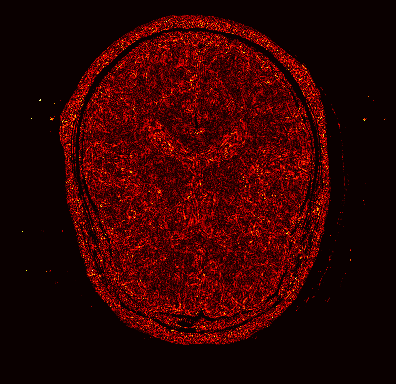
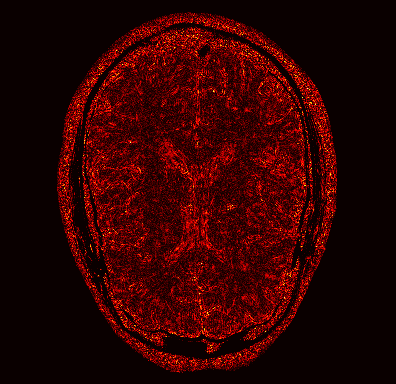
NN mask new opt 0.5

diff --git a/test.py b/test.py
@@ -75,13 +75,13 @@ toIm = toImage()
 # %% load uniform-unet model
 #val_uniform_loss = torch.load('/home/wjy/unet_model_val_loss')
 #mask = torch.load('/home/wjy/unet_mask_noise1')
-#sample_model.mask = mask
+#ample_model.mask = mask
 model = torch.load('/home/wjy/uniform_model_noise1',map_location=torch.device('cpu'))
 # %%
 #plt.plot(val_loss)
 # %%
 
-kspace = test_data[3]
+kspace = test_data[2]
 kspace = kspace.unsqueeze(0)
 Im  = toIm(kspace)
 #plt.imshow(Im[0,0,:,:],cmap='gray')
@@ -100,7 +100,7 @@ cmhot = plt.cm.get_cmap('hot')
 Error = cmhot(np.array(Error.squeeze()/torch.max(Im)*10))
 Error = np.uint8(Error*255)
 Error = Image.fromarray(Error)
-Error.save('/home/wjy/Project/OptSamp/result_local/NN_error_uni_noise05.png')
+Error.save('/home/wjy/Project/OptSamp/result_local/NN_error_opt_noise05.png')
 # %%
 
 #val_unet_loss = torch.load('/home/wjy/unet_model_val_loss')

diff --git a/TV_gradient.m b/TV_gradient.m
@@ -68,7 +68,7 @@ load('/home/wjy/TV_noise10_mask.mat');
 kspace = h5read([datapath,dirname(3).name],'/kspace');
 kspace = complex(kspace.r,kspace.i);
 kspace = permute(kspace,[4,2,1,3]);
-kData = undersample(reshape(kspace(1,:,:,:),2*N1,N2,Nc))/1e-4;
+kData = undersample(reshape(kspace(3,:,:,:),2*N1,N2,Nc))/1e-4;
 kMask = repmat(sqrt(weight),[N1,1,Nc]);
 usData = kMask.*kData+noise;
 recon = TV(usData,kMask,rho,beta,MaxIter,D,Dh,DhD);

diff --git a/Unet_opt.py b/Unet_opt.py
@@ -95,11 +95,15 @@ toIm.to(device)
 recon_optimizer = optim.RMSprop(recon_model.parameters(),lr=1e-3)
 Loss = torch.nn.MSELoss()
 # %% training
-step = 1e-2
-max_epochs = 50
+step = 1e-1
+max_epochs = 20
 val_loss = torch.zeros(max_epochs)
 for epoch in range(max_epochs):
     print("epoch:",epoch+1)
+    if epoch == 0:
+        step = 0
+    else:
+        step = 1e-1
 
     batch_count = 0
     for train_batch in train_dataloader:
